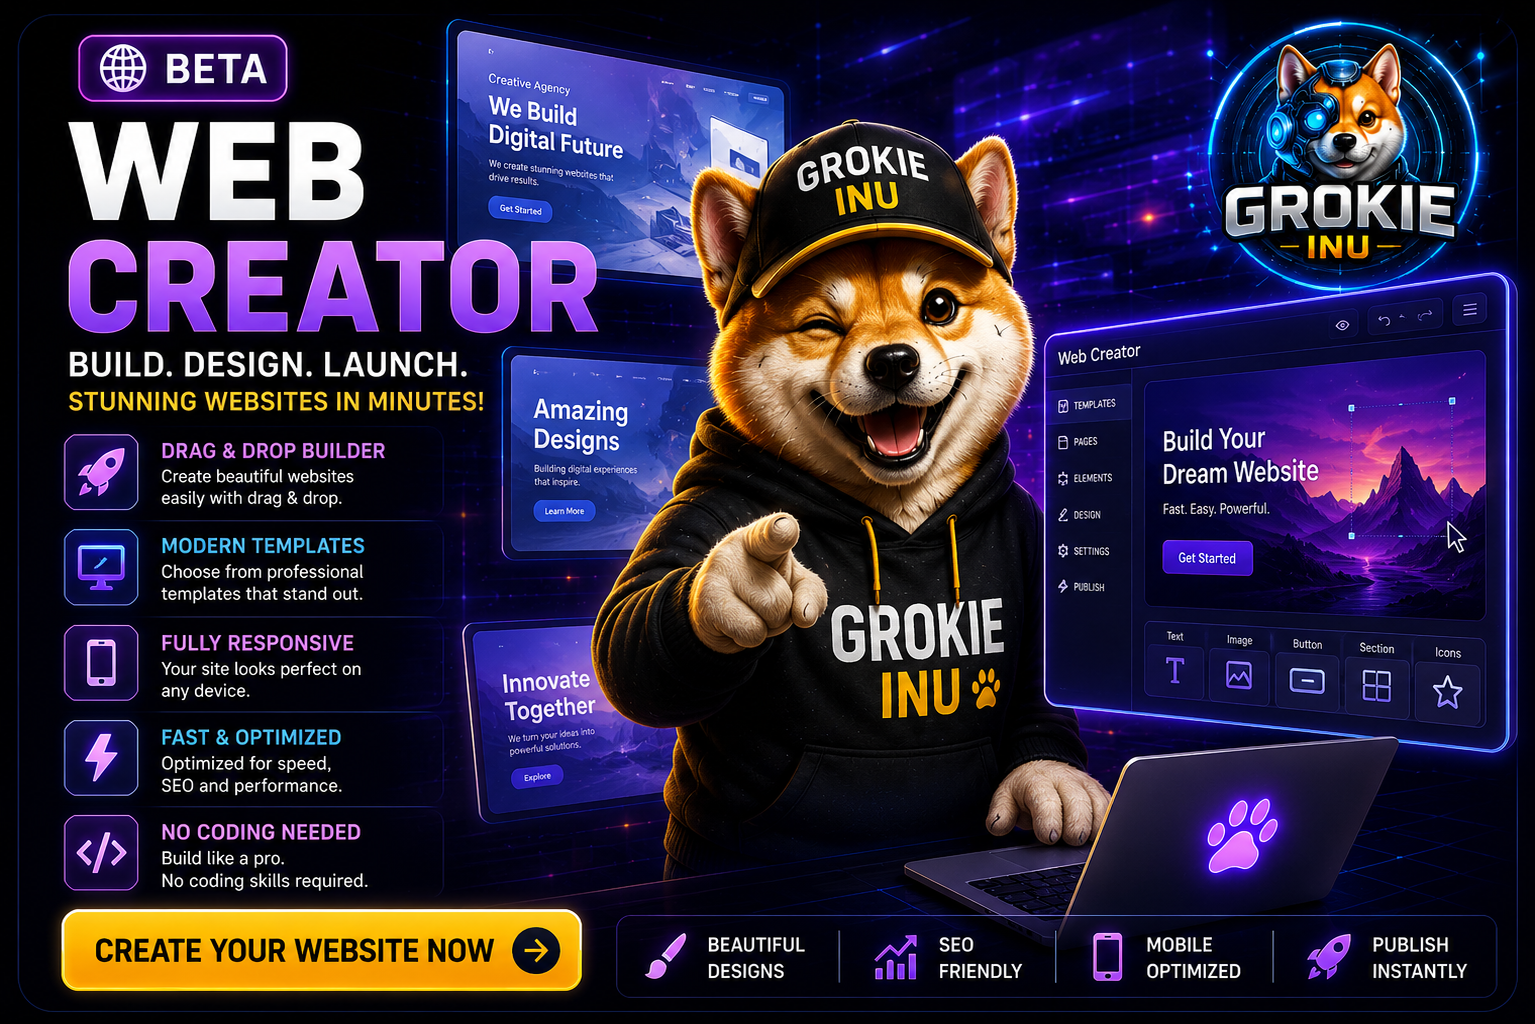
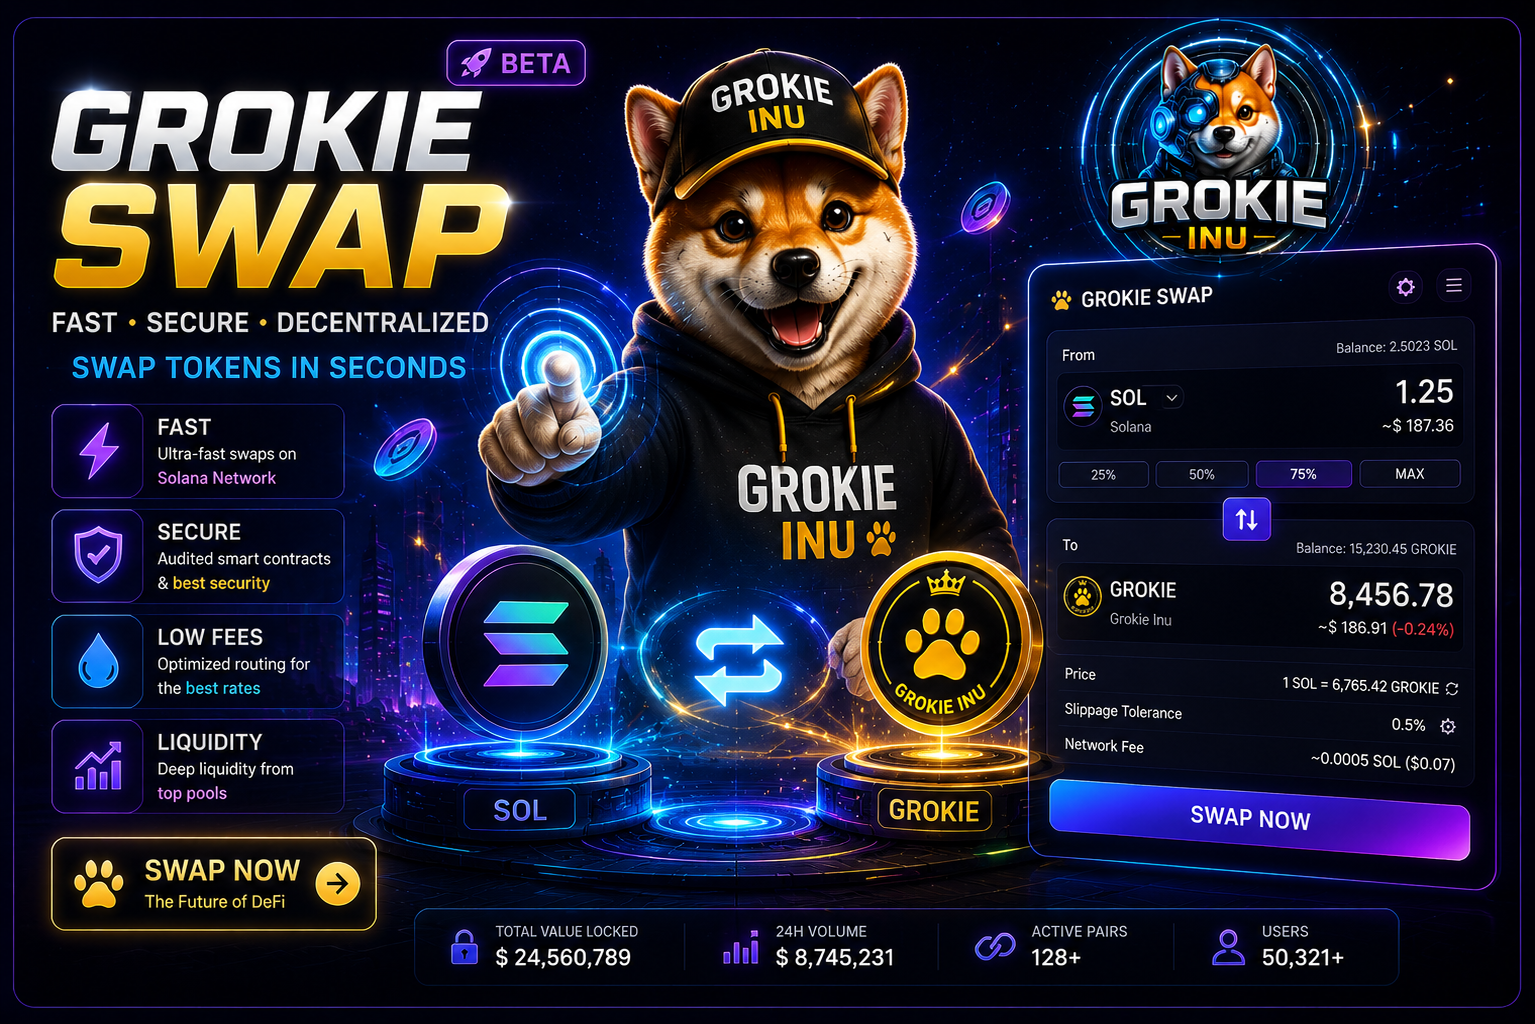
Add files via upload

diff --git a/assets/css/style.css b/assets/css/style.css
@@ -270,18 +270,20 @@ h2 {
     background: linear-gradient(to bottom, var(--accent), var(--primary), var(--cyan));
     border-radius: 3px; box-shadow: 0 0 10px var(--glow-pink);
 }
-.roadmap-item { position: relative; margin-bottom: 32px; padding-left: 10px; }
+.roadmap-item { position: relative; margin-bottom: 32px; padding-left: 10px; padding-top: 0; }
 .roadmap-marker {
-    position: absolute; left: -40px; top: -28px;
+    display: inline-block;
     background: linear-gradient(135deg, var(--accent), var(--primary));
     color: #fff; padding: 5px 14px; border-radius: 50px; font-size: 0.68rem; font-weight: 700;
     box-shadow: 0 3px 10px rgba(247,37,133,0.3);
     white-space: nowrap;
+    margin-left: 14px;
+    margin-bottom: 8px;
 }
 .roadmap-card {
     background: var(--card); backdrop-filter: blur(12px);
     border: 1px solid var(--border); border-radius: 16px; padding: 24px;
-    margin-left: 14px; margin-top: 10px; transition: all 0.4s;
+    margin-left: 14px; transition: all 0.4s;
 }
 .roadmap-card:hover { border-color: var(--border-hover); transform: translateX(6px); box-shadow: 0 10px 30px rgba(0,0,0,0.3); }
 .roadmap-card h3 { font-size: 1rem; margin-bottom: 12px; color: var(--text); }